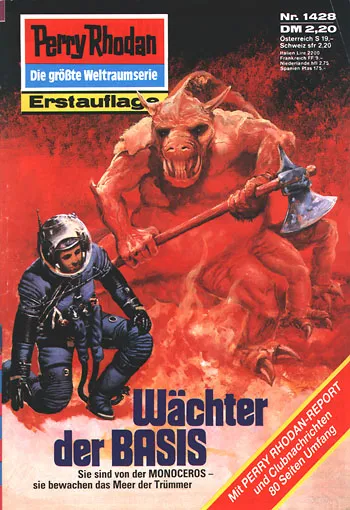
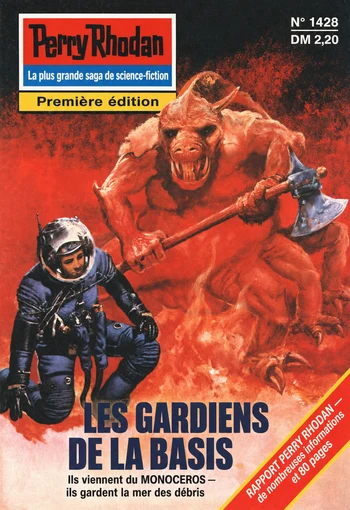
Update French Perry Rhodan covers 1423-1432

diff --git a/src/content/chapitres/de-1425.md b/src/content/chapitres/de-1425.md
@@ -5,7 +5,7 @@ cycleNumber: 21
 chapterNumber: 1425
 type: translation
 originalTitle: "Eine Falle für die Cantaro"
-cover: "/images/covers/de-1425.webp"
+cover: "/images/covers/de-1425.webp?v=20260826-1432"
 auteur: "H. G. Francis"
 parution: "1988-12-13"
 statut: wip

diff --git a/src/content/chapitres/de-1427.md b/src/content/chapitres/de-1427.md
@@ -5,7 +5,7 @@ cycleNumber: 21
 chapterNumber: 1427
 type: translation
 originalTitle: "Die Reise nach Ardustaar"
-cover: "/images/covers/de-1427.webp"
+cover: "/images/covers/de-1427.webp?v=20260826-1432"
 auteur: "Marianne Sydow"
 parution: "1988-12-27"
 statut: wip

diff --git a/src/content/chapitres/de-1426.md b/src/content/chapitres/de-1426.md
@@ -5,7 +5,7 @@ cycleNumber: 21
 chapterNumber: 1426
 type: translation
 originalTitle: "Daarshol, der Cantaro"
-cover: "/images/covers/de-1426.webp"
+cover: "/images/covers/de-1426.webp?v=20260826-1432"
 auteur: "Peter Griese"
 parution: "1988-12-20"
 statut: wip

diff --git a/src/content/chapitres/de-1428.md b/src/content/chapitres/de-1428.md
@@ -5,7 +5,7 @@ cycleNumber: 21
 chapterNumber: 1428
 type: translation
 originalTitle: "Wächter der BASIS"
-cover: "/images/covers/de-1428.webp"
+cover: "/images/covers/de-1428.webp?v=20260826-1432"
 auteur: "Robert Feldhoff"
 parution: "1989-01-03"
 statut: wip

diff --git a/src/content/chapitres/de-1432.md b/src/content/chapitres/de-1432.md
@@ -5,7 +5,7 @@ cycleNumber: 21
 chapterNumber: 1432
 type: translation
 originalTitle: "Fluchtziel Gevonia"
-cover: "/images/covers/de-1432.webp"
+cover: "/images/covers/de-1432.webp?v=20260826-1432"
 auteur: "H. G. Francis"
 parution: "1989-01-01"
 statut: wip

diff --git a/src/content/chapitres/de-1424.md b/src/content/chapitres/de-1424.md
@@ -5,7 +5,7 @@ cycleNumber: 21
 chapterNumber: 1424
 type: translation
 originalTitle: "Revolte auf Phönix"
-cover: "/images/covers/de-1424.webp"
+cover: "/images/covers/de-1424.webp?v=20260826-1432"
 auteur: "Kurt Mahr"
 parution: "1988-12-06"
 statut: wip

diff --git a/src/content/chapitres/de-1430.md b/src/content/chapitres/de-1430.md
@@ -5,7 +5,7 @@ cycleNumber: 21
 chapterNumber: 1430
 type: translation
 originalTitle: "Hamillers Puzzle"
-cover: "/images/covers/de-1430.webp"
+cover: "/images/covers/de-1430.webp?v=20260826-1432"
 auteur: "Arndt Ellmer"
 parution: "1989-01-17"
 statut: wip

diff --git a/src/content/chapitres/de-1431.md b/src/content/chapitres/de-1431.md
@@ -5,7 +5,7 @@ cycleNumber: 21
 chapterNumber: 1431
 type: translation
 originalTitle: "Das Humanidrom"
-cover: "/images/covers/de-1431.webp"
+cover: "/images/covers/de-1431.webp?v=20260826-1432"
 auteur: "H. G. Francis"
 parution: "1989-01-24"
 statut: wip

diff --git a/src/content/chapitres/de-1423.md b/src/content/chapitres/de-1423.md
@@ -5,7 +5,7 @@ cycleNumber: 21
 chapterNumber: 1423
 type: translation
 originalTitle: "Wer ist Advok?"
-cover: "/images/covers/de-1423.webp"
+cover: "/images/covers/de-1423.webp?v=20260826-1432"
 auteur: "K. H. Scheer"
 parution: "1988-11-29"
 statut: wip

diff --git a/src/content/chapitres/de-1429.md b/src/content/chapitres/de-1429.md
@@ -5,7 +5,7 @@ cycleNumber: 21
 chapterNumber: 1429
 type: translation
 originalTitle: "Hamillers Herz"
-cover: "/images/covers/de-1429.webp"
+cover: "/images/covers/de-1429.webp?v=20260826-1432"
 auteur: "Arndt Ellmer"
 parution: "1989-01-10"
 statut: wip
